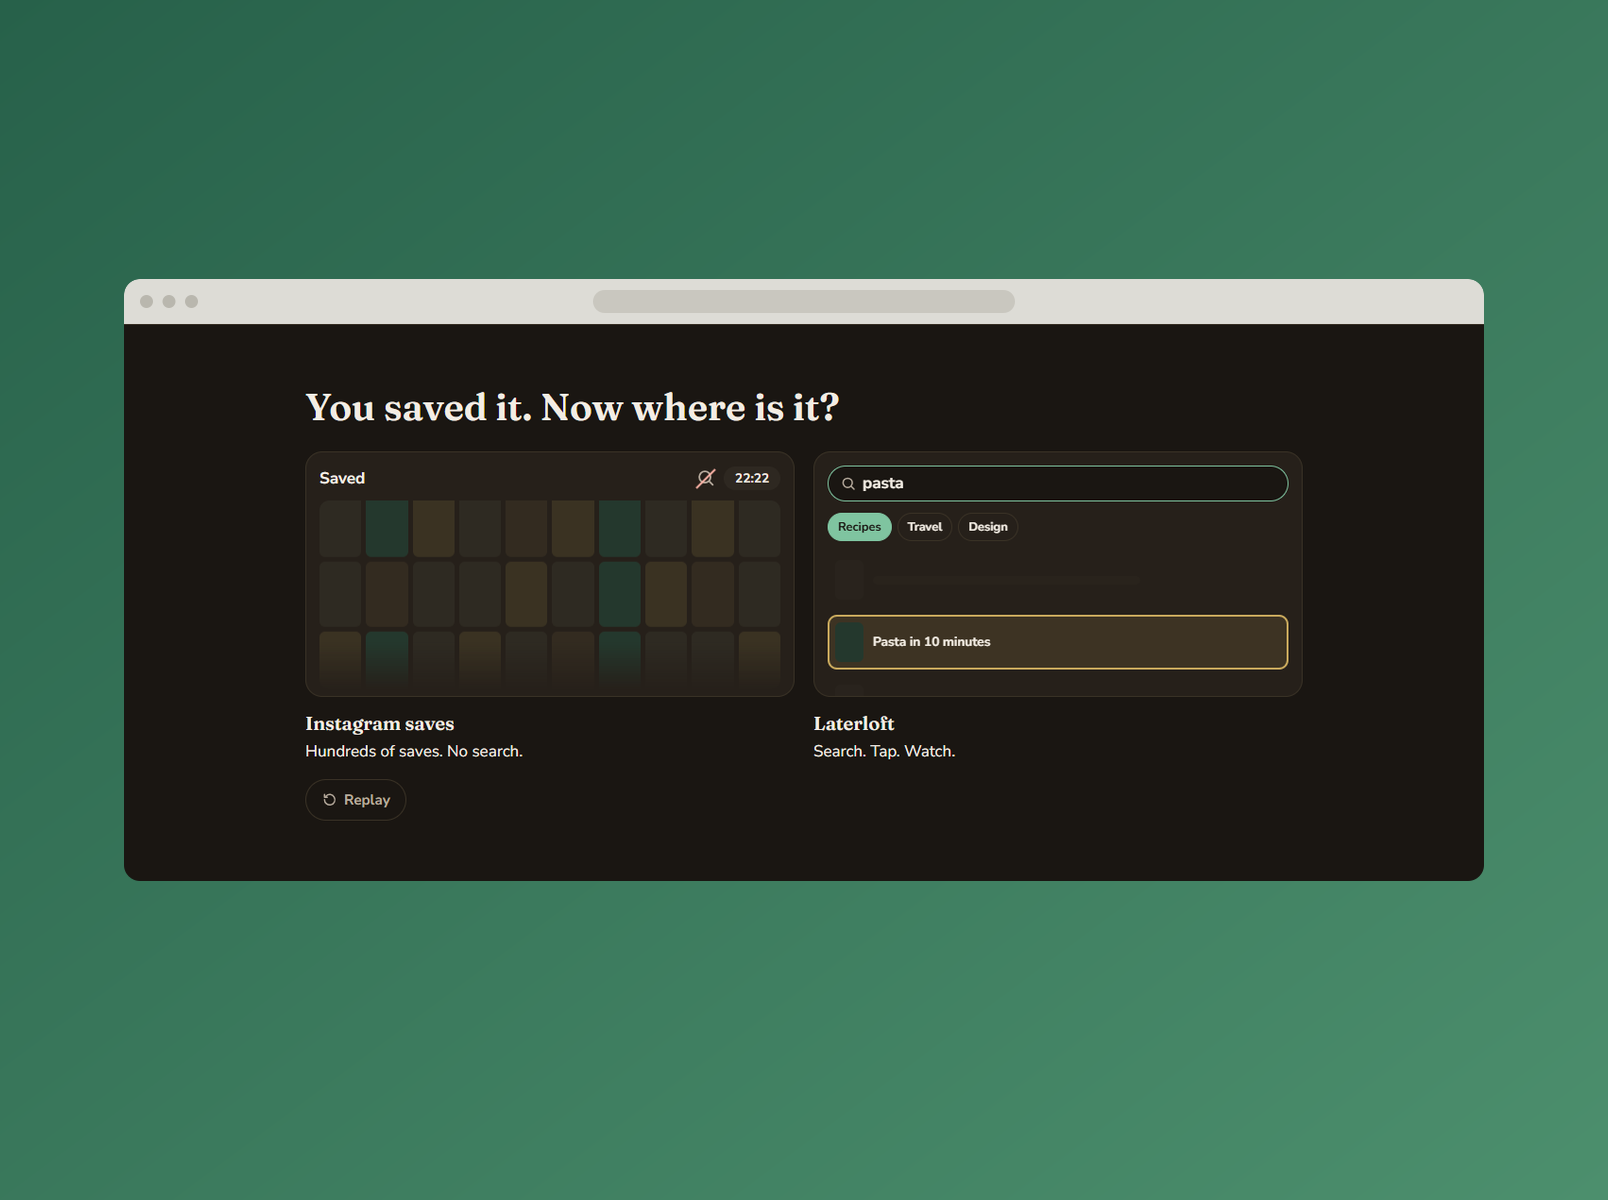
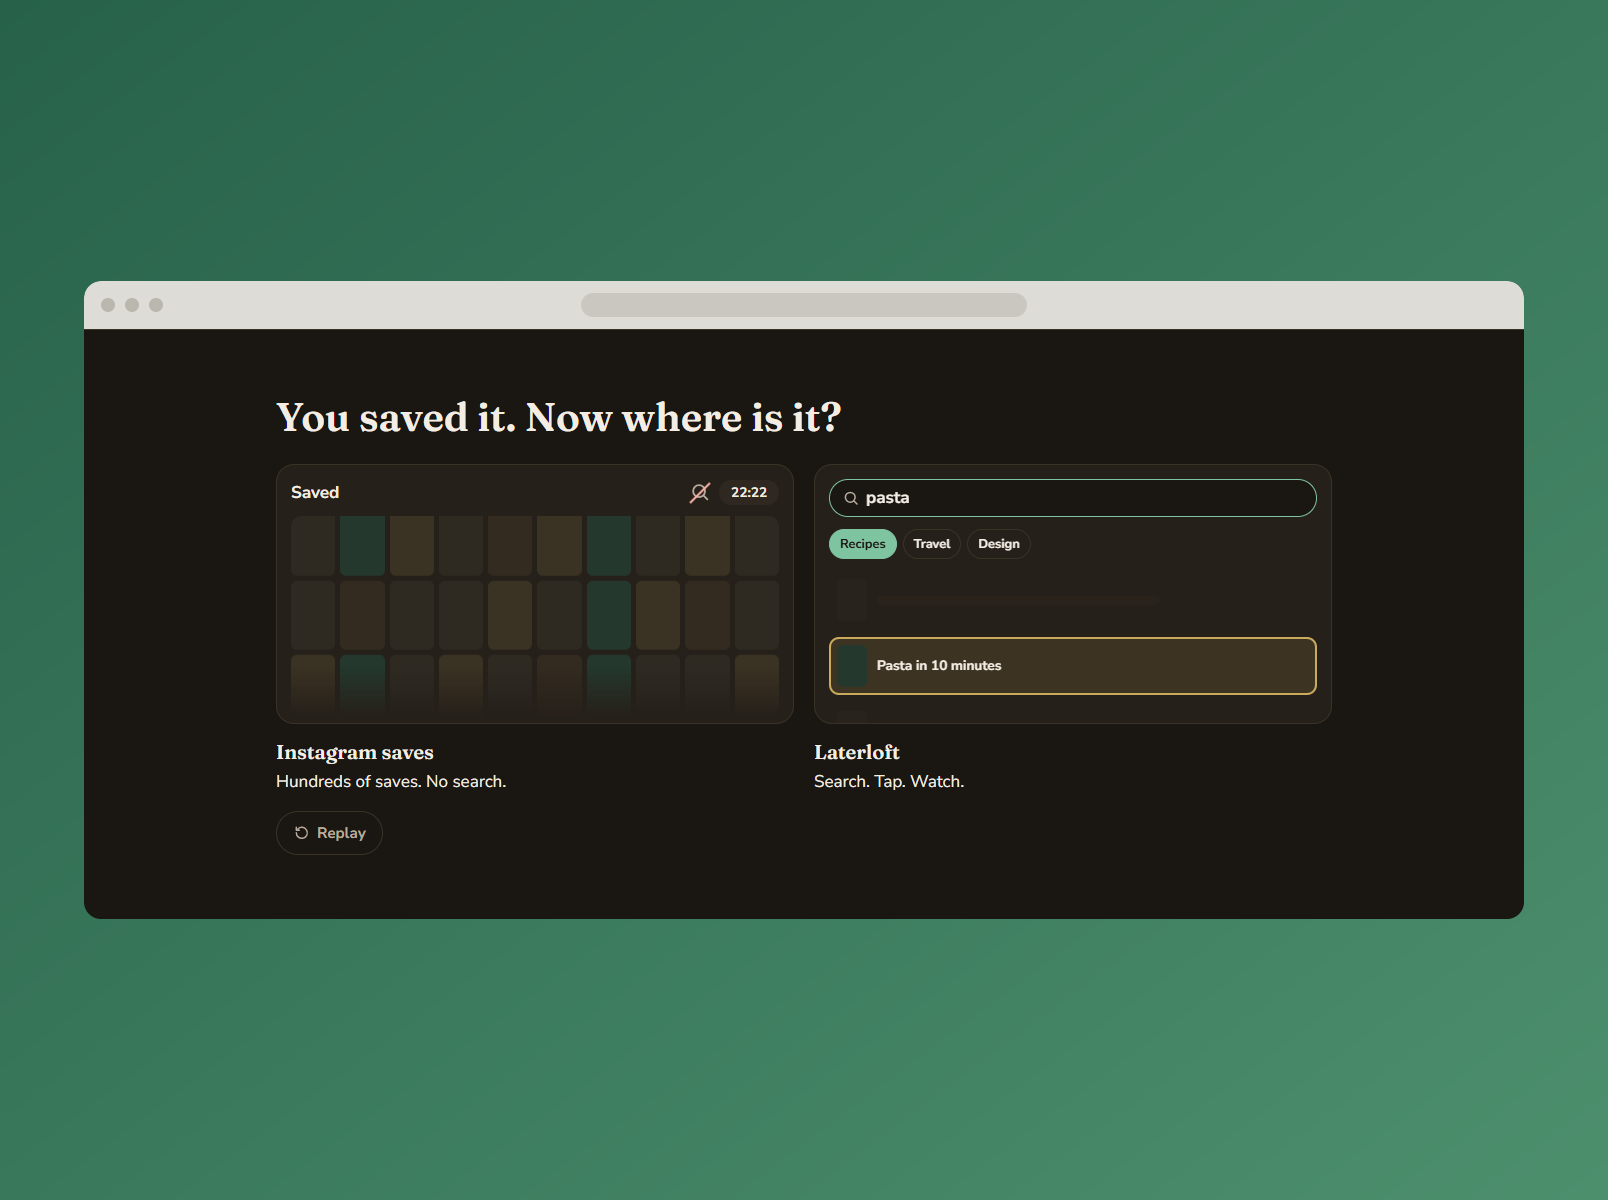
fix: centre the Laterloft site mockups, and add a margin audit
Audited how the artwork sits inside all 64 case-study images, through a
script that models each background from its corners and measures the
bounding box of everything else. Kept as scripts/audit-mockup-margins.mjs.

It found two of mine off centre: laterloft-site sections 02 and 05 sat
40px low (277/317 and 153/193). Both are now centred, and their browser
windows go from 1360 to 1440 wide, the source screenshot's own width, so
the page inside is never resampled.

Everything the script flags on the other four case studies is their Figma
composition rather than a fault: a phone bleeding off the bottom edge is
the intended look there, and Life's section 03 is asymmetric because the
child-switcher card is an overlay. Changing those means moving the Figma
frames.

The audit also confirms three images are still 2x rather than 3x:
event-management/section-04, website-redesign/section-02 and -04. Figma's
Starter plan is still rate limiting the export.

Writing the script was worth it twice over: the first version read the
raw buffer with a stride of 3 on RGBA data, so every reading was garbage
and it declared every image broken. Worth remembering that a green pass
from a tool you just wrote is not evidence.

diff --git a/CLAUDE.md b/CLAUDE.md
@@ -394,6 +394,12 @@ and `laterloft-site` through `scripts/compose-mockups.mjs`, for the other four b
 the Figma frames. `laterloft`'s have been reframed this way, so its stacked section and
 hero are larger than the Figma four's.
 
+`scripts/audit-mockup-margins.mjs` prints how the artwork sits inside every case-study
+image: the margin on each side, and a warning when they are uneven or the artwork runs
+off an edge. Run it after changing a scene. A bottom margin of 0 is expected on gallery
+squares, where the phone is meant to run off, and on the Figma four, whose compositions
+bleed a phone off the bottom on purpose.
+
 When editing scenes in that script, remember a phone stands about `innerW * 2.17` tall
 once the bezel is on (bezel is `round(innerW * 0.033)` and the screen is 0.475 wide for
 its height). Centre that height in the canvas. Sections 03 and 05 were rescaled from
